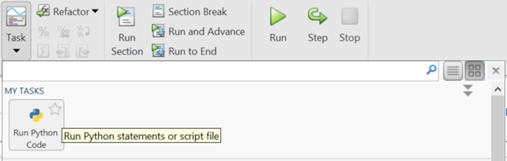
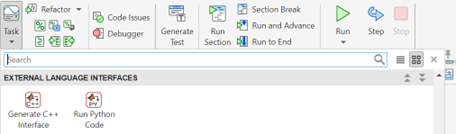
Update Python live task from 24a

diff --git a/4_Call_Python_from_MATLAB.md b/4_Call_Python_from_MATLAB.md
@@ -85,12 +85,9 @@ If it feels more convenient to paste your Python code snippet into a script, you
 
 ## 4.2. Execute Python code in a MATLAB Live Task
 
-Since MATLAB 2022a, you can develop your own custom live tasks. So, in mid-2021, we started prototyping a Python live task with Lucas Garcia. The truth is: I made a first crappy version, and Lucas turned it into something awesome (Lucas should get all the credits for this). Based on this Minimal Viable Product, we engaged with the development teams, both of the MATLAB editor team, and the Python interface team. We decided it would be best to release this prototype in open-source on GitHub to get early feedbacks, and potentially ship it in the product in future version.
+Since MATLAB 2022a, you can develop your own custom live tasks. So, in mid-2021, we started prototyping a Python live task with Lucas Garcia. The truth is: I made a first crappy version, and Lucas turned it into something awesome (Lucas should get all the credits for this). Based on this Minimal Viable Product, we engaged with the development teams, both the MATLAB editor team, and the Python interface team. We decided it would be best to release this prototype in open-source on GitHub to get early feedback. The code is available on https://github.com/mathworks/MATLAB-Live-Task-for-Python 
 
-The code is available on https://github.com/mathworks
-
-To test it, just clone or download the repo. Execute the set-up script to register the Live Task in your Task gallery. Create a new Live Script, and select Task in the Live
-Editor tab. You should see this icon under MY TASKS:
+As of 24a, you can find this live task directly in the product. To test it, create a new Live Script, and select Task in the Live Editor tab. You should see this icon under EXTERNAL LANGUAGE INTERFACES:
 
 <img src="./media/image41.png" />
 
@@ -98,13 +95,16 @@ If you click on it, it will add the live task to your Live Script where the curs
 
 <img src="./media/image43.png" />
 
-This is what the first version (mine looked like):
+This is what the in-product version of this Python live task looks like:
 
-<img src="./media/image44.png" />
+<img src="./media/image45b.png" />
 
-And this is what Lucas turned it into:
-
-<img src="./media/image45.png" />
+You can try it out by inputting raw python code, that takes a MATLAB input, like:
+```python
+import textwrap as tw
+format = tw.TextWrapper(width=30)
+wrapped = format.wrap(T)
+```
 
 ## 4.3. Basic syntax of calling Python from MATLAB
 
